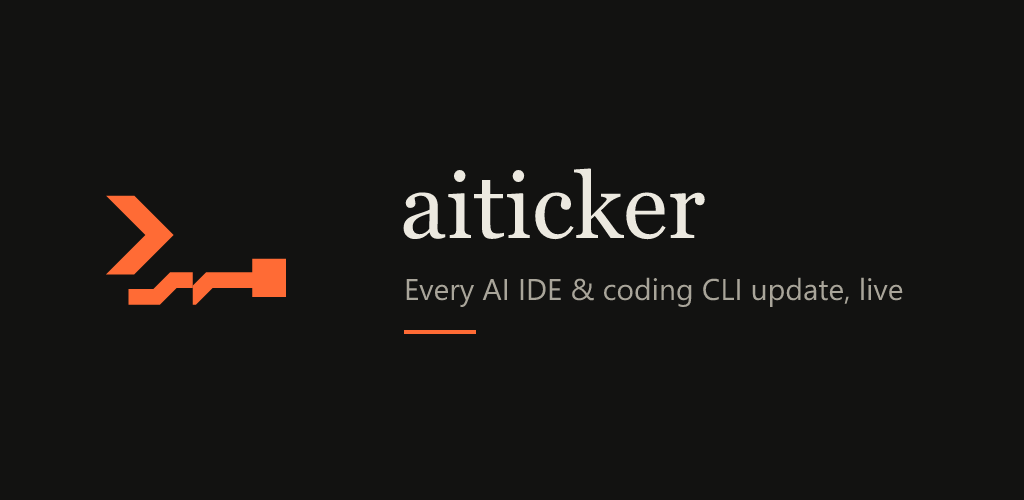
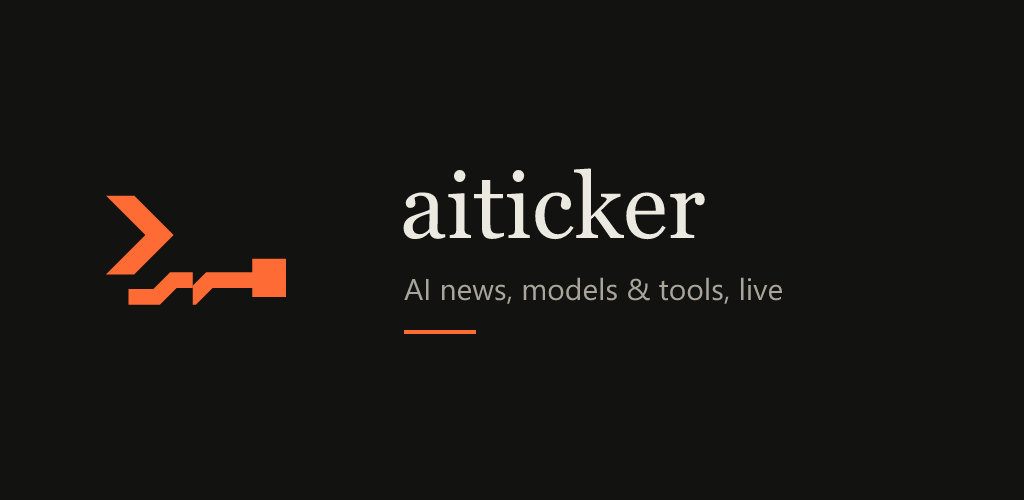
chore: rename the app to 'aiticker: AI News & Models' for general AI coverage

Changed region(s): [[0.375, 0.54, 0.9062, 0.6]]

diff --git a/play/store/listing.md b/play/store/listing.md
@@ -1,36 +1,34 @@
 # Play Store listing: copy and paste
 
 ## App name (30 max)
-aiticker: AI IDE & CLI news
+aiticker: AI News & Models
 
 ## Short description (80 max)
-Live release notes & news for Cursor, Claude Code, Codex, Copilot and 40+ tools.
+Live AI news, model launches, benchmarks and coding-tool updates in one feed.
 
 ## Full description (4000 max)
-aiticker tracks every AI coding tool in one live feed, so you know what changed in your editor before it surprises you.
+aiticker follows the whole AI world in one live feed: new models, the labs and companies behind them, the tools built on top, and the news that actually matters.
 
 WHAT YOU GET
-• Every release, patch and changelog for 50+ AI IDEs, coding CLIs and editor agents: Cursor, Claude Code, Codex, Gemini CLI, GitHub Copilot, Windsurf, Kiro, Zed, Cline, Aider and more
-• Important news only: launches, pricing changes and security alerts, with the noise filtered out
-• Models: 280+ AI models with release dates, context windows, API prices, benchmark scores and a head-to-head comparison you build yourself
-• Compare plans: free tiers, seat prices and budgets side by side
-• Companies: who builds each tool, their founders and investors
-• Learn: short narrated chapters on how AI models actually work
-• Fast search across every tool, model and update
+• AI news, filtered: model launches, pricing changes and security alerts, without the noise
+• Models: 280+ AI models from OpenAI, Anthropic, Google, Meta, Mistral, DeepSeek and more, with release dates, context windows, API prices and benchmark scores
+• Leaderboard & showdown: rank models on intelligence, coding, speed and price, or put any of them head to head
+• Companies: every AI lab and toolmaker, with founders, investors and what they've shipped
+• Tools: release notes for 50+ AI apps, IDEs, coding agents and CLIs (Cursor, Claude Code, Codex, Gemini CLI, Copilot and more) as they ship
+• MCP servers & skills: the fastest-growing open-source AI add-ons, tracked from GitHub
+• Learn: short narrated chapters on how AI models actually work: tokens, context, reasoning, training and more
+• Fast search across every model, company, tool and story
 
 STRAIGHT FROM THE SOURCE
-Data comes from official GitHub releases, official changelogs and blog feeds, and Hacker News, refreshed automatically every few hours. No mock data, no sign-up.
+Data comes from official releases, changelogs and blogs, public benchmarks and Hacker News, refreshed automatically every few hours. No mock data, no sign-up.
 
 WORKS OFFLINE
 Pages you've opened stay readable without a connection and refresh when you're back online.
 
-aiticker is independent and not affiliated with any of the tools listed. All trademarks belong to their owners.
+aiticker is independent and not affiliated with any company listed. All trademarks belong to their owners.
 
 ## Category
-News & Magazines (alternative: Tools)
-
-## Tags / keywords to pick
-Developer news, Technology news
+News & Magazines
 
 ## Contact details
 - Website: https://ai-ide-news.github.io/
@@ -43,5 +41,3 @@ Developer news, Technology news
 | App icon (512×512) | icon-512.png |
 | Feature graphic (1024×500) | feature-graphic-1024x500.png |
 | Phone screenshots (2–8) | phone-1.png … phone-5.png |
-
-Phone screenshots double as 7" tablet screenshots if Play asks; 10" tablet ones are optional.

diff --git a/play/README.md b/play/README.md
@@ -13,7 +13,7 @@ The Android app is a Trusted Web Activity (TWA): a small wrapper that opens http
 
 ## 1. One-time Play Console setup
 1. Create a developer account at https://play.google.com/console ($25 one-time, identity verification).
-2. **Create app** → name `aiticker: AI IDE & CLI news`, App, Free, accept declarations.
+2. **Create app** → name `aiticker: AI News & Models`, App, Free, accept declarations.
 
 ## 2. Upload the bundle (closed test first)
 Personal accounts created after November 2023 must run a **closed test with at least 12 testers for 14 continuous days** before production access.
